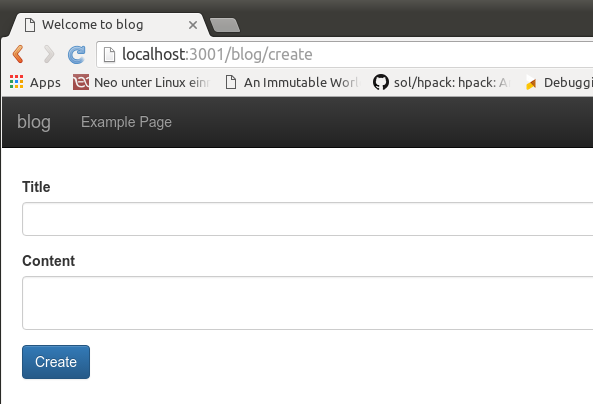
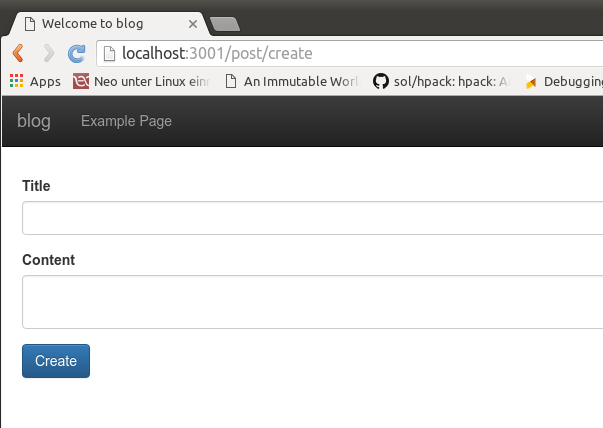
added update post

diff --git a/resources/public/pages/create-post/index.html b/resources/public/pages/create-post/index.html
@@ -2,7 +2,7 @@
 <html xmlns="http://www.w3.org/1999/xhtml" lang="en" xml:lang="en">
 <head>
     <meta charset="utf-8"/>
-    <title>Closp Documentation: Writing to database</title>
+    <title>Closp Documentation: Create Post</title>
     <link rel="canonical" href="http://closp.net/pages/create-post/">
     <meta name="viewport" content="width=device-width, initial-scale=1">
     <link href='http://fonts.googleapis.com/css?family=Alegreya:400italic,700italic,400,700' rel='stylesheet'
@@ -68,7 +68,7 @@
                 
 <div id="custom-page">
     <div id="page-header">
-        <h2>Writing to database</h2>
+        <h2>Create Post</h2>
     </div>
     
     <p>In the last chapter we read our data from the database. Now we will create a simple form to add new blog posts.</p><h2><a name="create&#95;post"></a>Create Post</h2><p>Open <i>blog.clj</i> in <code>foo.example.db</code>. We will add two new functions to create and update posts:</p><pre><code>&#40;defn create-post &#91;m&#93;
@@ -76,20 +76,22 @@
                  &#40;merge {:created&#95;at &#40;quot &#40;System/currentTimeMillis&#41; 1000&#41;}&#41;&#41;&#93;
     &#40;insert post &#40;values data&#41;&#41;&#41;&#41;
 </code></pre><p>Also you will have to update the require section of that namespace because of the new functions that we just added: </p><pre><code>&#91;korma.core :refer &#91;select insert values&#93;&#93;
-</code></pre><p>Next we have to update our routes file. Open <i>blog.clj</i> in <code>foo.example.routes</code> and add the following code:</p><pre><code>&#40;defn create-page &#91;&#93;
-  &#40;layout/render &quot;blog/create.html&quot;&#41;&#41;
+</code></pre><p>Next we have to update our routes file. Open <i>blog.clj</i> in <code>foo.example.routes</code> and add the following code:</p><pre><code>&#40;defn create-post-page &#91;&#93;
+  &#40;layout/render &quot;blog/create-post.html&quot;&#41;&#41;
 
-&#40;defn create &#91;title content&#93;
+&#40;defn create-post &#91;title content&#93;
   &#40;b-db/create-post {:title title :content content}&#41;
   &#40;resp/redirect &quot;/blog&quot;&#41;&#41;
 </code></pre><p>We also have to update the <i>require</i> part of the routes namespace to include the <i>resp</i> directive and <i>POST</i> function:</p><pre><code>&#40;:require &#91;compojure.core :refer &#91;routes GET POST PUT&#93;&#93;
             &#91;foo.example.db.blog :as b-db&#93;
             &#91;foo.example.layout :as layout&#93;
             &#91;ring.util.response :as resp&#93;&#41;
-</code></pre><p>And finally we will add the <i>create.html</i> file in <code>resources/templates/blog</code> which contains a very basic form to add the title and the content:</p><pre><code>{% extends &quot;templates/base.html&quot; %}
+</code></pre><p>Next update the routes function and add these two routes:</p><pre><code>&#40;GET &quot;/post/create&quot; &#91;&#93; &#40;create-post-page&#41;&#41;
+&#40;POST &quot;/post&quot; &#91;title content&#93; &#40;create-post title content&#41;&#41;
+</code></pre><p>And finally we will add the <i>create-post.html</i> file in <code>resources/templates/blog</code> which contains a very basic form to add the title and the content:</p><pre><code>{% extends &quot;templates/base.html&quot; %}
 {% block content %}
 
-&lt;form action=&quot;/blog&quot; method=&quot;post&quot;&gt;
+&lt;form action=&quot;/post&quot; method=&quot;post&quot;&gt;
     &lt;input name=&quot;&#95;&#95;anti-forgery-token&quot; type=&quot;hidden&quot; value=&quot;{{af-token}}&quot;/&gt;
 
     &lt;div class=&quot;form-group&quot;&gt;
@@ -113,13 +115,17 @@
 &lt;/form&gt;
 
 {% endblock %}
-</code></pre><p>If you followed all the steps you should switch to your REPL now and run:</p><blockquote><p> (reload) </p></blockquote><p>This is necessary because we added a route and for closp to pick it up we have to reload all namespaces.</p><p>When you are done the form should look like this:</p><p><img src="/img/create-post-01.png" alt="Create Post Form" /></p>
+</code></pre><p>Please note the hidden <em>__anti-forgery-token_</em> input field. It is needed for every POST / PUT / DELETE request and protects you from cross site request forgery. It is automatically available in every selmer template that you render with the <i>layout/render</i> function.</p><p>If you followed all the steps you should switch to your REPL now and run:</p><blockquote><p> (reload) </p></blockquote><p>This is necessary because we added a route and for closp to pick it up we have to reload all namespaces.</p><p>When you are done the form at: <a href="http://localhost:3000/post/create">http://localhost:3000/post/create</a> should look like this:</p><p><img src="/img/create-post-01.png" alt="Create Post Form" /></p>
 
     <div id="prev-next">
         
         <a href="/pages/new-model/">&laquo; Creating a new model</a>
         
         
+        ||
+        
+        
+        <a href="/pages/update-post/">Update Post &raquo;</a>
         
     </div>
 </div>
@@ -139,7 +145,9 @@
                     
                     <li><a href="/pages/new-model/">Creating a new model</a></li>
                     
-                    <li><a href="/pages/create-post/">Writing to database</a></li>
+                    <li><a href="/pages/create-post/">Create Post</a></li>
+                    
+                    <li><a href="/pages/update-post/">Update Post</a></li>
                     
                 </ul>
                 

diff --git a/resources/public/index.html b/resources/public/index.html
@@ -87,7 +87,9 @@ Github: <a href="http://github.com/sveri/closp">closp</a>
     
     <li><a href="/pages/new-model/">Creating a new model</a></li>
     
-    <li><a href="/pages/create-post/">Writing to database</a></li>
+    <li><a href="/pages/create-post/">Create Post</a></li>
+    
+    <li><a href="/pages/update-post/">Update Post</a></li>
     
 </ol>
 
@@ -128,7 +130,9 @@ Github: <a href="http://github.com/sveri/closp">closp</a>
                     
                     <li><a href="/pages/new-model/">Creating a new model</a></li>
                     
-                    <li><a href="/pages/create-post/">Writing to database</a></li>
+                    <li><a href="/pages/create-post/">Create Post</a></li>
+                    
+                    <li><a href="/pages/update-post/">Update Post</a></li>
                     
                 </ul>
                 

diff --git a/resources/public/pages/new-model/index.html b/resources/public/pages/new-model/index.html
@@ -103,7 +103,7 @@ INSERT INTO post &#40;&quot;title&quot;, &quot;content&quot;, &quot;draft&quot;&
         ||
         
         
-        <a href="/pages/create-post/">Writing to database &raquo;</a>
+        <a href="/pages/create-post/">Create Post &raquo;</a>
         
     </div>
 </div>
@@ -123,7 +123,9 @@ INSERT INTO post &#40;&quot;title&quot;, &quot;content&quot;, &quot;draft&quot;&
                     
                     <li><a href="/pages/new-model/">Creating a new model</a></li>
                     
-                    <li><a href="/pages/create-post/">Writing to database</a></li>
+                    <li><a href="/pages/create-post/">Create Post</a></li>
+                    
+                    <li><a href="/pages/update-post/">Update Post</a></li>
                     
                 </ul>
                 

diff --git a/resources/public/pages/new-template/index.html b/resources/public/pages/new-template/index.html
@@ -123,7 +123,9 @@ What an awesome blog.
                     
                     <li><a href="/pages/new-model/">Creating a new model</a></li>
                     
-                    <li><a href="/pages/create-post/">Writing to database</a></li>
+                    <li><a href="/pages/create-post/">Create Post</a></li>
+                    
+                    <li><a href="/pages/update-post/">Update Post</a></li>
                     
                 </ul>
                 

diff --git a/resources/public/pages/closp-intro/index.html b/resources/public/pages/closp-intro/index.html
@@ -119,7 +119,9 @@
                     
                     <li><a href="/pages/new-model/">Creating a new model</a></li>
                     
-                    <li><a href="/pages/create-post/">Writing to database</a></li>
+                    <li><a href="/pages/create-post/">Create Post</a></li>
+                    
+                    <li><a href="/pages/update-post/">Update Post</a></li>
                     
                 </ul>
                 

diff --git a/resources/public/pages/new-router/index.html b/resources/public/pages/new-router/index.html
@@ -119,7 +119,9 @@
                     
                     <li><a href="/pages/new-model/">Creating a new model</a></li>
                     
-                    <li><a href="/pages/create-post/">Writing to database</a></li>
+                    <li><a href="/pages/create-post/">Create Post</a></li>
+                    
+                    <li><a href="/pages/update-post/">Update Post</a></li>
                     
                 </ul>
                 

diff --git a/resources/public/archives/index.html b/resources/public/archives/index.html
@@ -89,7 +89,9 @@
                     
                     <li><a href="/pages/new-model/">Creating a new model</a></li>
                     
-                    <li><a href="/pages/create-post/">Writing to database</a></li>
+                    <li><a href="/pages/create-post/">Create Post</a></li>
+                    
+                    <li><a href="/pages/update-post/">Update Post</a></li>
                     
                 </ul>
                 

diff --git a/resources/public/tags/index.html b/resources/public/tags/index.html
@@ -91,7 +91,9 @@
                     
                     <li><a href="/pages/new-model/">Creating a new model</a></li>
                     
-                    <li><a href="/pages/create-post/">Writing to database</a></li>
+                    <li><a href="/pages/create-post/">Create Post</a></li>
+                    
+                    <li><a href="/pages/update-post/">Update Post</a></li>
                     
                 </ul>
                 

diff --git a/resources/templates/md/pages/update-post.md b/resources/templates/md/pages/update-post.md
@@ -1,0 +1,89 @@
+{:title "Update Post"
+ :layout :page
+ :page-index 600}
+
+In this chapter we will add functions to edit existing posts.
+
+Open _blog.clj_ in `foo.example.db`. We will add two new functions to update posts:
+
+```
+(defn update-post [id m]
+  (let [data (select-keys m [:title :content :draft])]
+    (update post (set-fields data) (where {:id id}))))
+
+(defn get-by-id [id]
+  (first (select post (where {:id id}))))
+```
+
+_update-post_ takes a second parameter _id_ which is the id of the actual post.
+
+Next we have to edit our routes file. Open _blog.clj_ in `foo.example.routes` and add the following code:
+
+```
+(defn edit-post-page [id]
+  (layout/render "/blog/edit-post.html" {:post (b-db/get-by-id id)}))
+
+(defn edit-post [id title content]
+  (b-db/update-post id {:title title :content content})
+  (resp/redirect "/blog"))
+```
+
+Again we will have to add two more routes:
+
+```
+(GET "/post/edit/:id" [id] (edit-post-page id))
+(POST "/post/edit" [id title content] (edit-post id title content))
+```
+
+And finally we create a new html template in `resources/templates` called _edit-post.html_ with the following content:
+
+```
+{% extends "templates/base.html" %}
+{% block content %}
+
+<form action="/post/edit" method="post">
+    <input name="__anti-forgery-token" type="hidden" value="{{af-token}}"/>
+    <input name="id" type="hidden" value="{{post.id}}"/>
+
+    <div class="form-group">
+        <label for="title">Title</label>
+        <p>
+            <input class="form-control" id="title" name="title" value="{{post.title}}"/>
+        </p>
+    </div>
+
+    <div class="form-group">
+        <label for="content">Content</label>
+        <p>
+            <textarea class="form-control" id="content" name="content">{{post.content}}</textarea>
+        </p>
+    </div>
+
+    <div class="form-group">
+        <input class="btn btn-primary" type="submit" value="Update">
+    </div>
+
+</form>
+
+{% endblock %}
+```
+
+It is very similar to the _create_ template and with some switches you could just use one template for both.
+
+Again run:
+
+> (reload)
+
+in the REPL to notify closp of the changed routes.
+
+To be able to actually edit anything we will also adapt the _index.html_ file to add links to the blog post:
+
+```
+<b><a href="/post/edit/{{post.id}}">{{post.title}}</a></b>
+```
+
+which before was:
+
+```
+<b>{{post.title}}</b>
+```

diff --git a/resources/templates/md/pages/create-post.md b/resources/templates/md/pages/create-post.md
@@ -1,4 +1,4 @@
-{:title "Writing to database"
+{:title "Create Post"
  :layout :page
  :page-index 500}
 
@@ -25,10 +25,10 @@ that we just added:
 Next we have to update our routes file. Open _blog.clj_ in `foo.example.routes` and add the following code:
 
 ```
-(defn create-page []
-  (layout/render "blog/create.html"))
+(defn create-post-page []
+  (layout/render "blog/create-post.html"))
 
-(defn create [title content]
+(defn create-post [title content]
   (b-db/create-post {:title title :content content})
   (resp/redirect "/blog"))
 ```
@@ -42,13 +42,21 @@ We also have to update the _require_ part of the routes namespace to include the
             [ring.util.response :as resp])
 ```
 
-And finally we will add the _create.html_ file in `resources/templates/blog` which contains a very basic form to add the title and the content:
+Next update the routes function and add these two routes:
+
+
+```
+(GET "/post/create" [] (create-post-page))
+(POST "/post" [title content] (create-post title content))
+```
+
+And finally we will add the _create-post.html_ file in `resources/templates/blog` which contains a very basic form to add the title and the content:
 
 ```
 {% extends "templates/base.html" %}
 {% block content %}
 
-<form action="/blog" method="post">
+<form action="/post" method="post">
     <input name="__anti-forgery-token" type="hidden" value="{{af-token}}"/>
 
     <div class="form-group">
@@ -74,12 +82,16 @@ And finally we will add the _create.html_ file in `resources/templates/blog` whi
 {% endblock %}
 ```
 
+Please note the hidden *__anti-forgery-token_* input field. It is needed for every POST / PUT / DELETE request
+and protects you from cross site request forgery. It is automatically available in every selmer template that
+you render with the _layout/render_ function.
+
 If you followed all the steps you should switch to your REPL now and run:
 
 > (reload)
 
 This is necessary because we added a route and for closp to pick it up we have to reload all namespaces.
 
-When you are done the form should look like this:
+When you are done the form at: <http://localhost:3000/post/create> should look like this:
 
 ![Create Post Form](/img/create-post-01.png)
